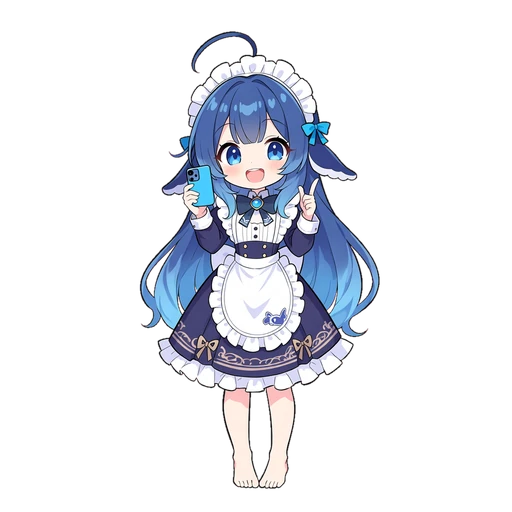
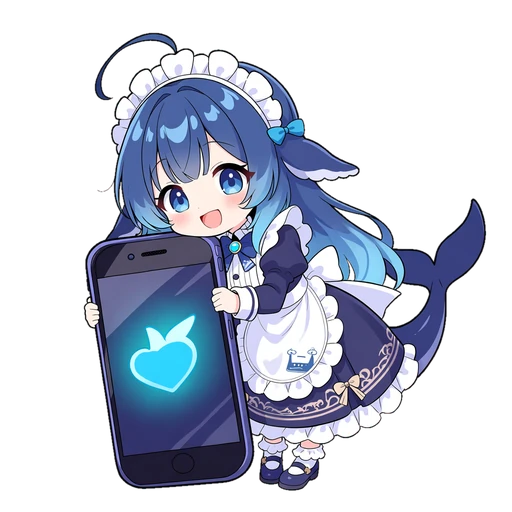
feat: 归档页分类卡配图(技术/项目/公告)+ 三件套图标终版(抱大手机)

diff --git a/content/categories/项目/_index.md b/content/categories/项目/_index.md
@@ -1,0 +1,4 @@
+---
+title: 项目
+image: /img/cover_proj_dshmini.webp
+---

diff --git a/content/categories/技术/_index.md b/content/categories/技术/_index.md
@@ -1,0 +1,4 @@
+---
+title: 技术
+image: /img/cover_greenscreen.webp
+---

diff --git a/content/categories/公告/_index.md b/content/categories/公告/_index.md
@@ -1,0 +1,4 @@
+---
+title: 公告
+image: /img/cover_hello.webp
+---
